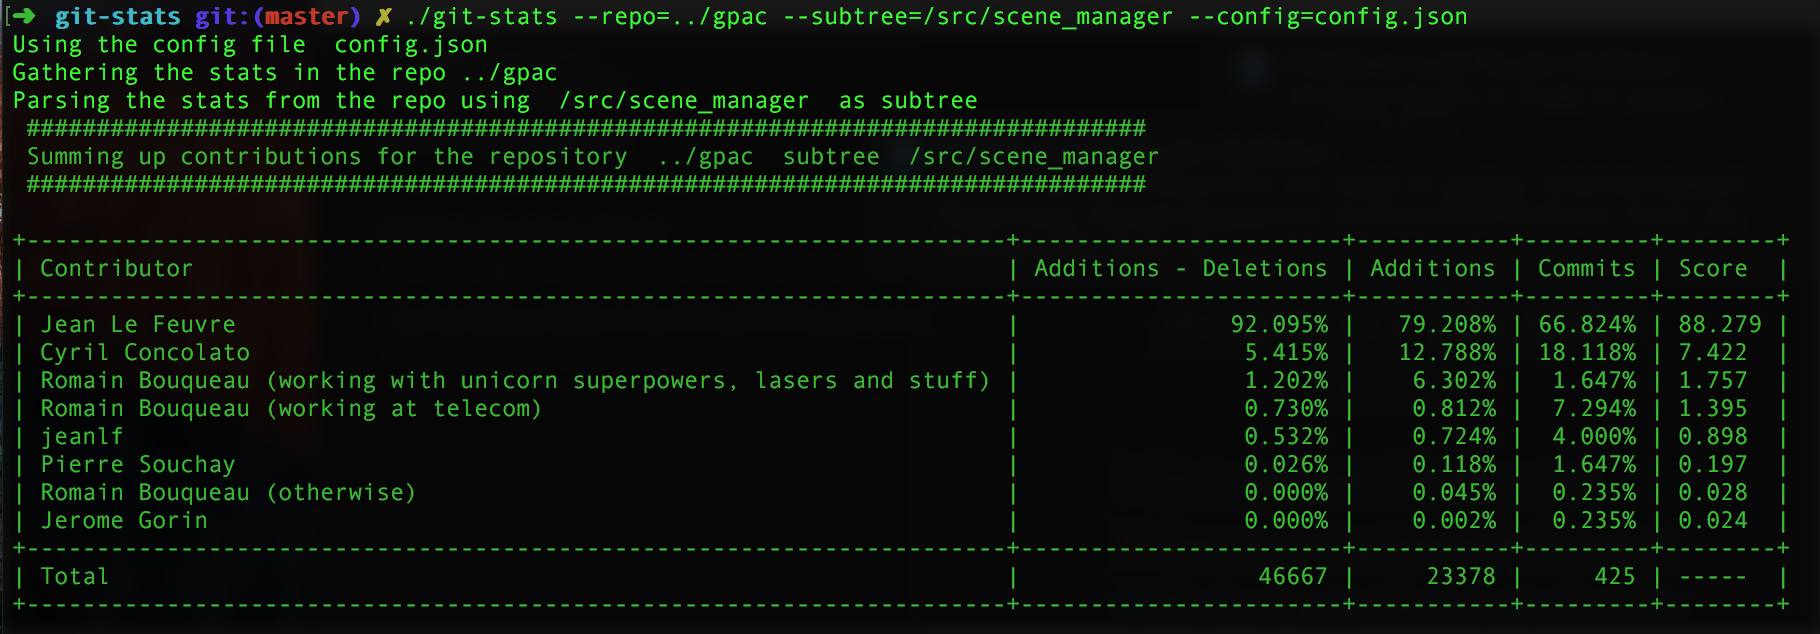
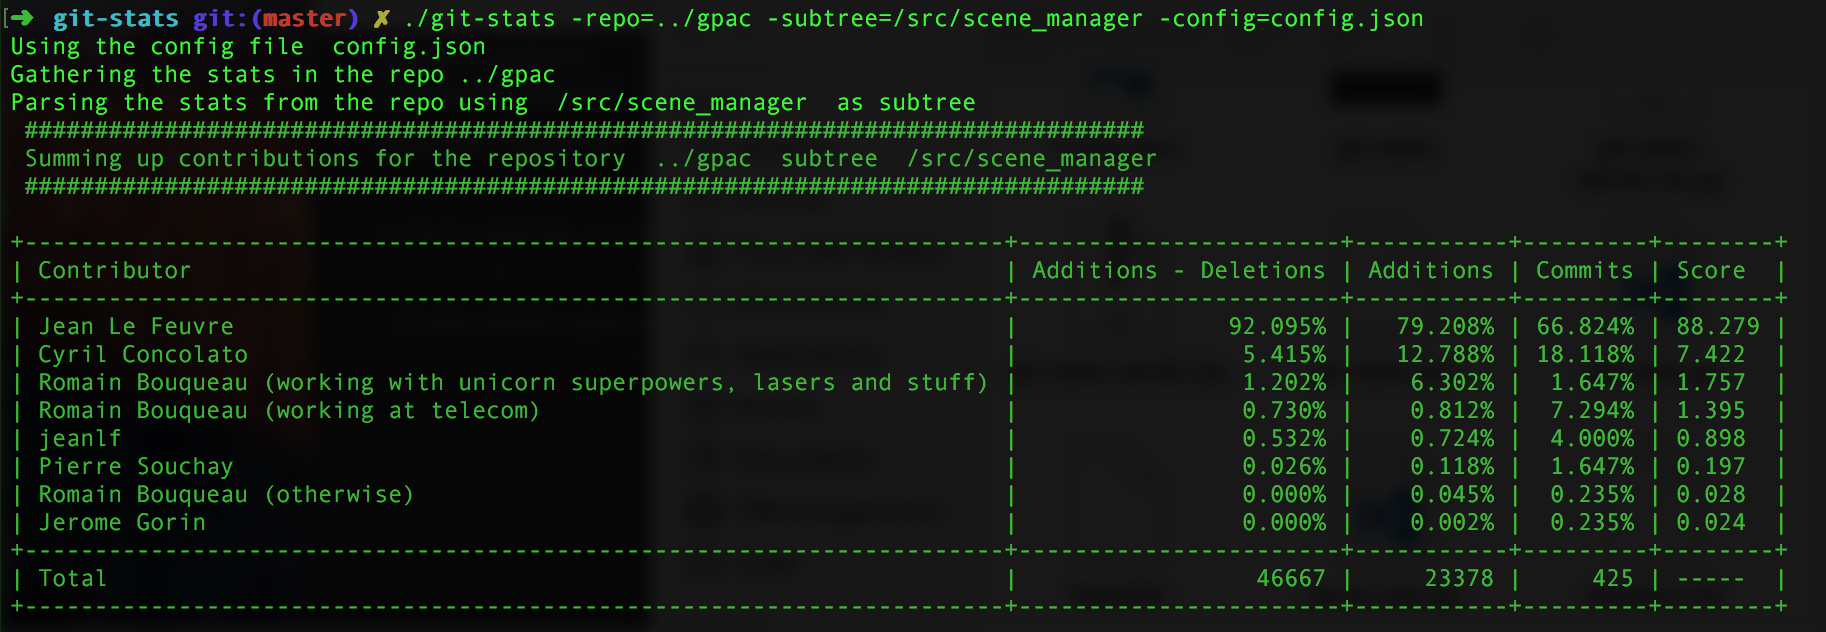
Fixing the help fixes #2

Changed region(s): [[0.0, 0.3608, 0.9846, 0.962], [0.0, 0.0, 0.8, 0.3307]]

diff --git a/Readme.md b/Readme.md
@@ -21,7 +21,7 @@ Dumps the number of additions and deletions from a repostory or a
 subtree of the repository
 
 ```
-Usage:  /Users/tamareu/Code/git-stats/git-stats --repo=repo_path [options]
+Usage:  /Users/tamareu/Code/git-stats/git-stats -repo=repo_path [options]
   -config string
     	[optionnal] Path to the configuration file
   -help
